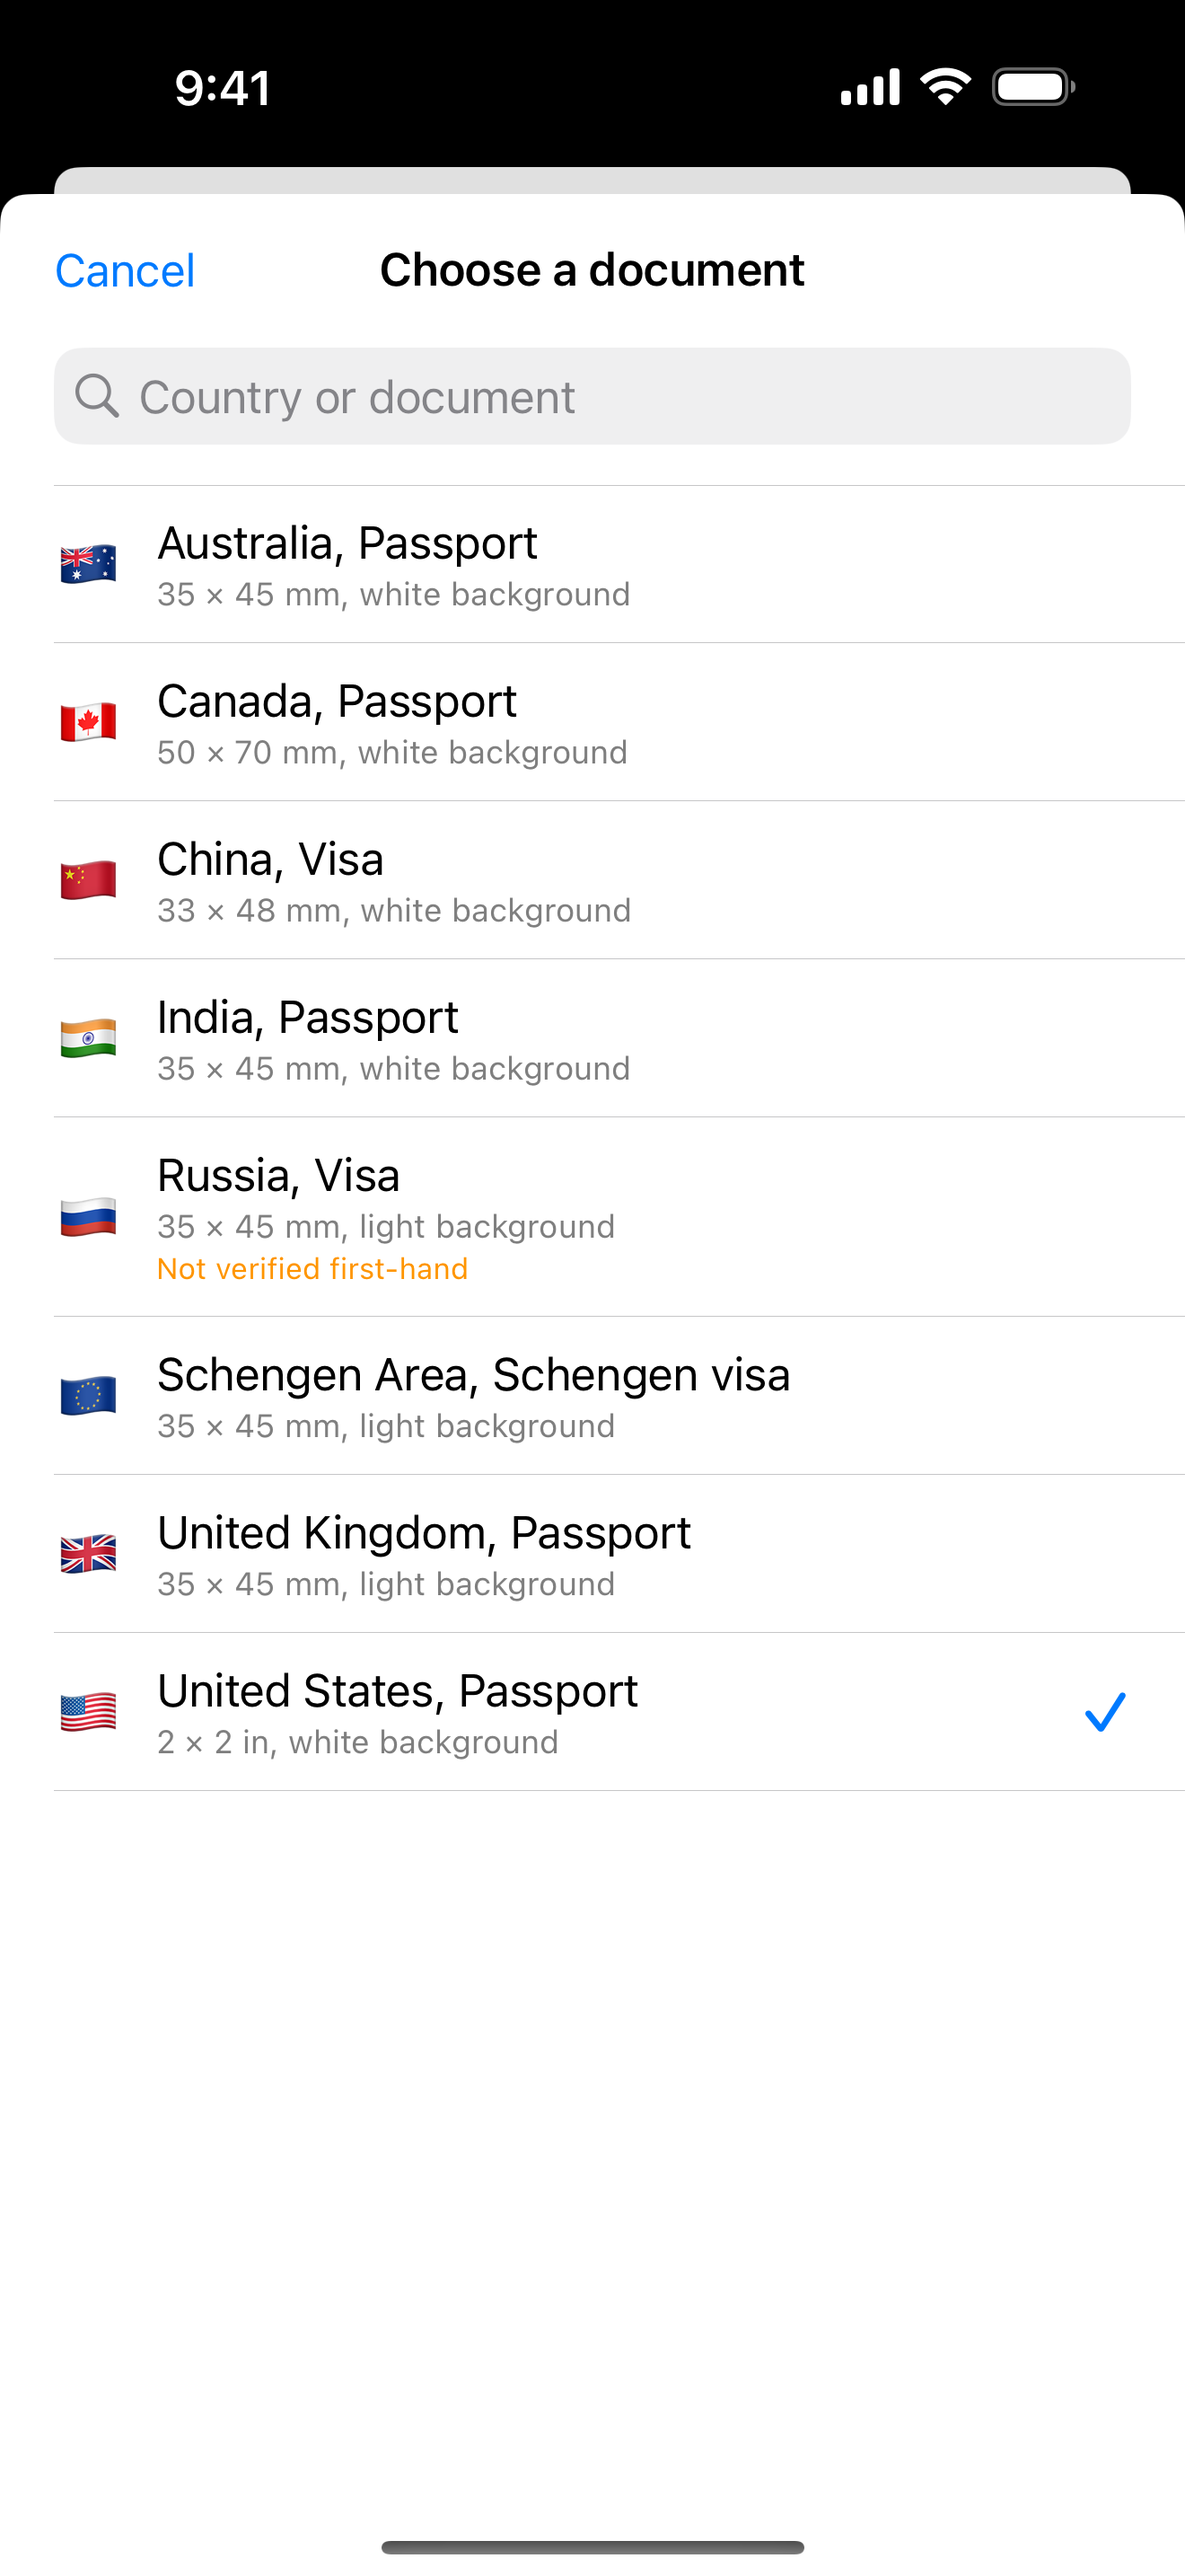
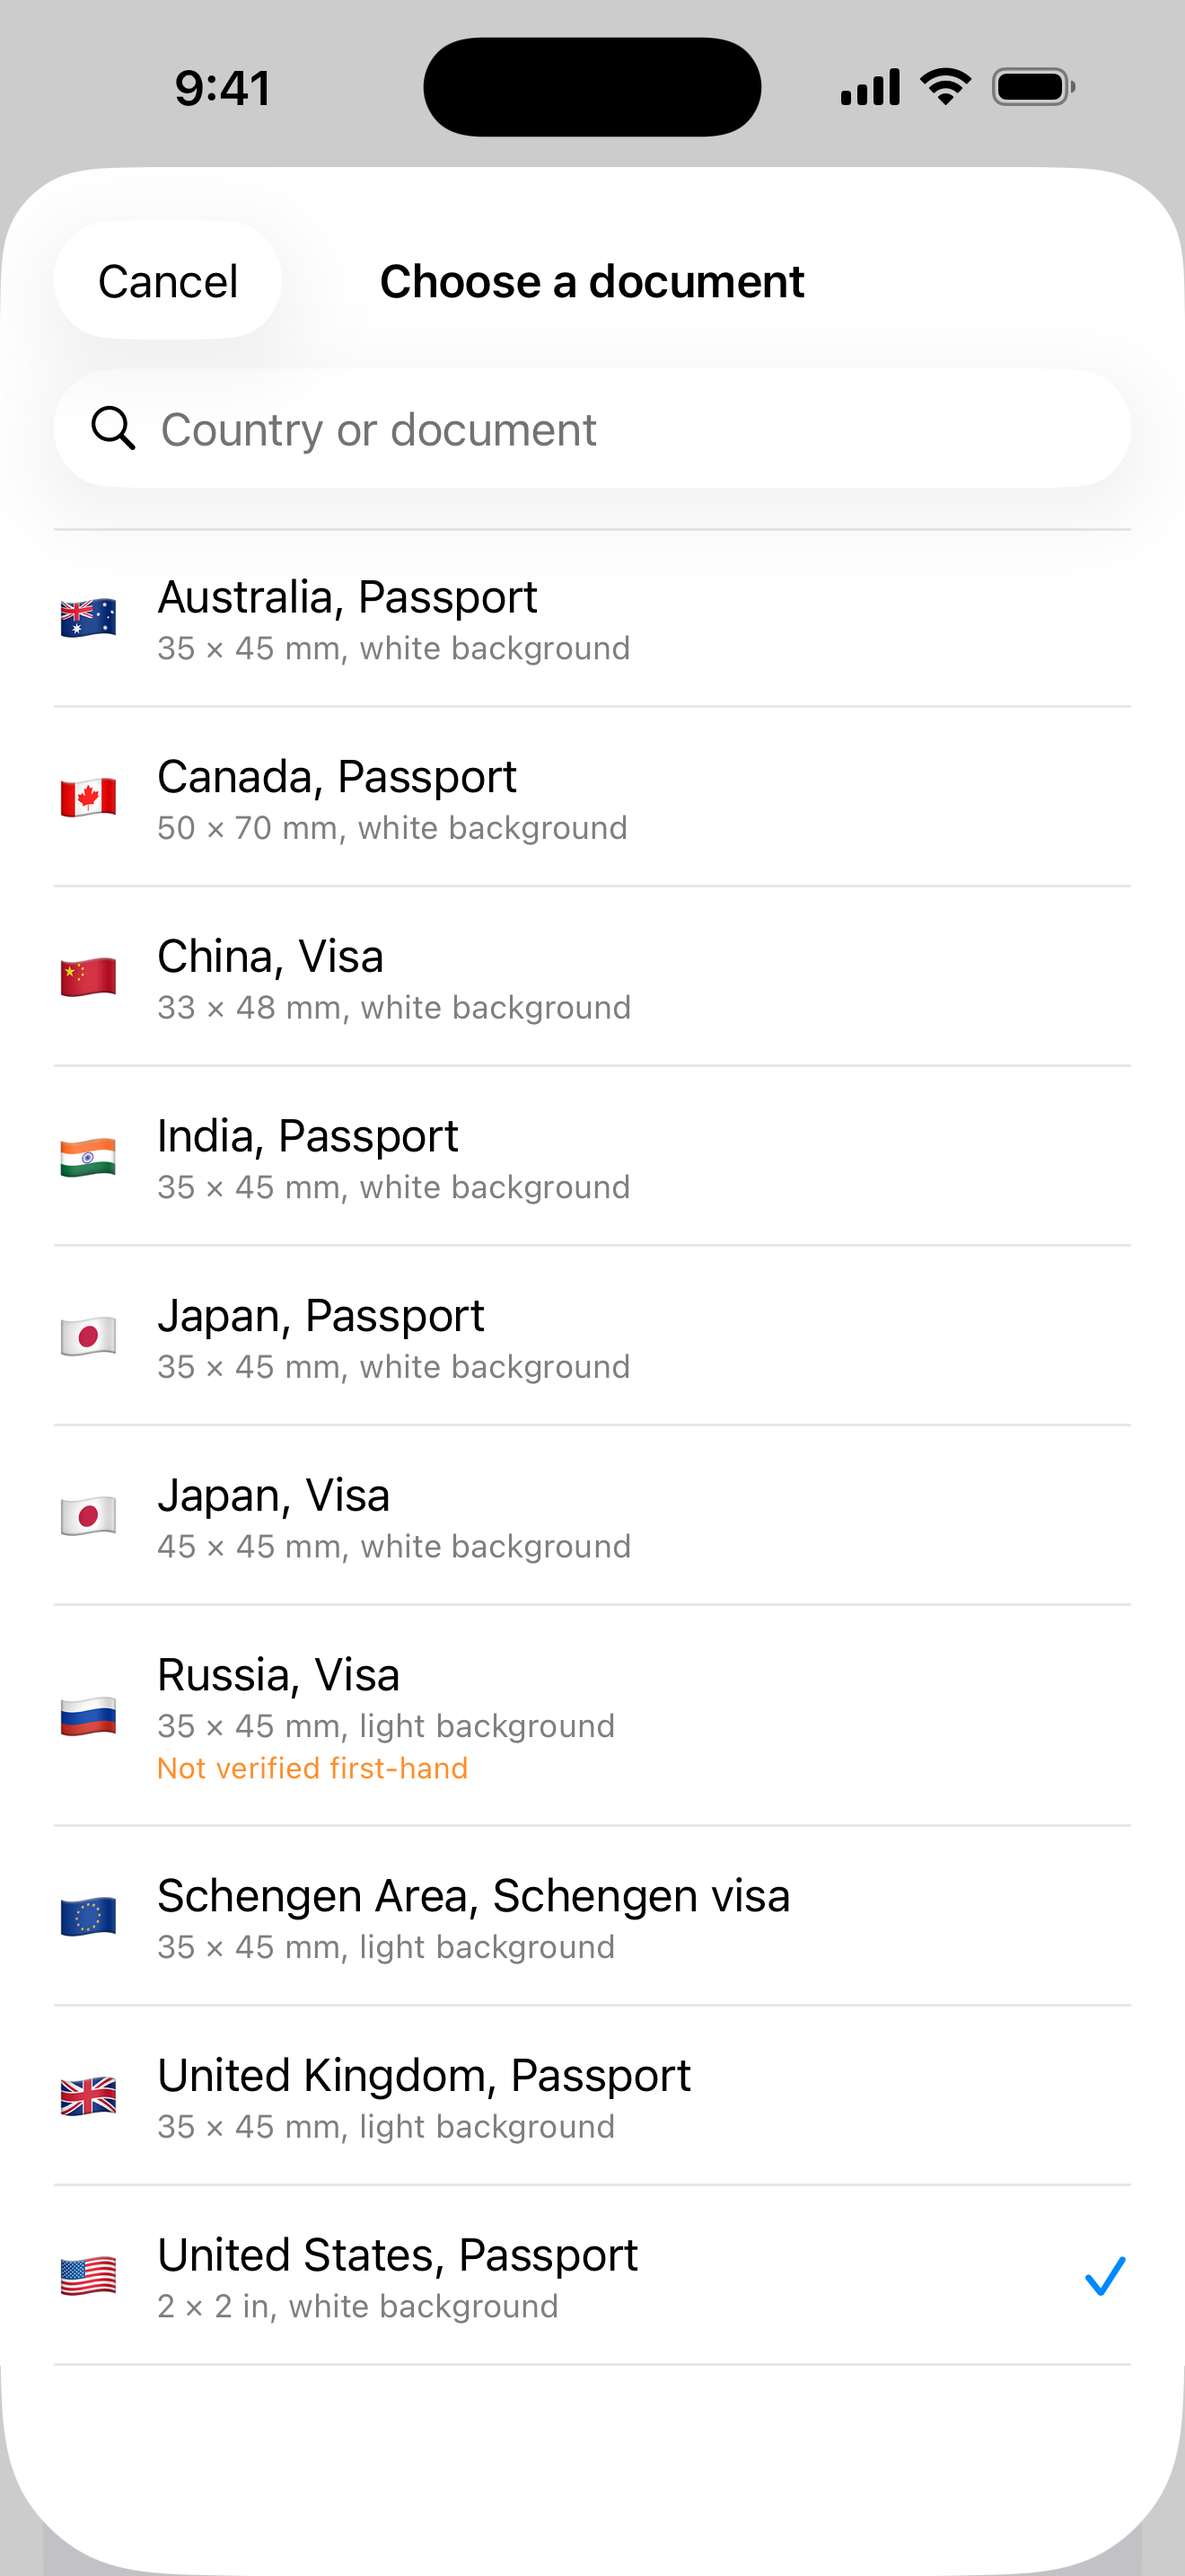
Recapture the marketing sources; three of the four were stale
Went in to add Japan to the picker and found the raw captures had drifted
well past that.

The picker was missing both Japan documents, which the live App Store
description already promises. The home screen predated the "Keep my own
background" card entirely and still defaulted to India; the app now guesses
from locale and opens on United States, which is also the better example for
the US storefront. The requirements screen had been restyled, sentence-case
headers and a different card treatment, so slides 2 and 3 were showing a UI
that no longer exists.

All recaptured on an iPhone 17 Pro Max simulator, which is natively
1320 x 2868, so nothing is scaled. Status bar flattened first, otherwise the
battery renders green and charging.

The honesty list no longer shares a screen with the measurements it follows,
so slide 3 now comes from its own scrolled capture, 3b-cant-check.png.

Still stale and not fixable here: 4-saved-sheet.png. It is past Vision, which
does not run in the Simulator, so slide 4 keeps showing the India print flow
while the other four show the United States. Recapture on a device.

The README's capture notes were wrong in a way that would have sent the next
person looking in the wrong place: they claimed slide 02 was built from
6-result.png. It is built from 3-requirements.png.

diff --git a/tools/store-shot.swift b/tools/store-shot.swift
@@ -62,12 +62,14 @@ let slides: [Slide] = [
     Slide(file: "02-measured.png", source: "3-requirements.png",
           headline: "Measured, not guessed",
           subline: "Head height, eye line, background, file size",
-          presentation: .detail(CGRect(x: 50, y: 420, width: 1220, height: 1300))),
+          presentation: .detail(CGRect(x: 50, y: 440, width: 1220, height: 1500))),
 
-    Slide(file: "03-honest.png", source: "3-requirements.png",
+    // A second capture, scrolled: the honesty list no longer fits on the same screen as the
+    // measurements it follows.
+    Slide(file: "03-honest.png", source: "3b-cant-check.png",
           headline: "Honest about what it cannot check",
           subline: "A green check is never a promise",
-          presentation: .detail(CGRect(x: 50, y: 1780, width: 1220, height: 1018))),
+          presentation: .detail(CGRect(x: 50, y: 1090, width: 1220, height: 1432))),
 
     Slide(file: "04-print.png", source: "4-saved-sheet.png",
           headline: "Exactly how to print it",

diff --git a/docs/store/README.md b/docs/store/README.md
@@ -39,17 +39,40 @@ scroll indicator.
 1320 x 2868 is the 6.9 inch size. Apple scales it down for smaller devices, so this one set
 covers every iPhone.
 
-## The device screenshot
+## Where the raw captures come from
 
-`screenshots/6-result.png` is the result screen, captured on an iPhone 15. It cannot be made
-here: Vision does not run in the Simulator, so this screen is unreachable on this machine.
+| Source | Screen | Captured |
+|---|---|---|
+| `1-home.png` | Home | iPhone 17 Pro Max simulator, 12 Oct 2026 |
+| `2-picker.png` | Document picker | iPhone 17 Pro Max simulator, 12 Oct 2026 |
+| `3-requirements.png` | Requirements, top | iPhone 17 Pro Max simulator, 12 Oct 2026 |
+| `3b-cant-check.png` | Requirements, scrolled | iPhone 17 Pro Max simulator, 12 Oct 2026 |
+| `4-saved-sheet.png` | Print guidance | **stale**, see below |
 
-It is currently a **downscaled copy at 923 x 2000**, and slide 02 upscales it about 1.3x to fill
-the panel. It holds up, but a full-resolution capture (1179 x 2556 on an iPhone 15) would be
-visibly sharper on the one slide that matters most. Worth replacing if a clean original is to
-hand: drop it in as `screenshots/6-result.png` and re-run the tool.
+To recapture, boot the simulator, build and launch, then flatten the status bar first or the
+battery renders green:
 
-Still worth capturing some time: the camera screen with the oval head guide and a live cue.
+```bash
+xcrun simctl status_bar <udid> override --time "9:41" --batteryState discharging \
+  --batteryLevel 100 --cellularBars 4 --wifiBars 3 --dataNetwork wifi
+xcrun simctl io <udid> screenshot docs/store/screenshots/1-home.png
+```
+
+A 17 Pro Max capture is exactly 1320 x 2868, which is the size the store wants, so no scaling
+is involved anywhere.
+
+## What cannot be captured here, and what is stale because of it
+
+Vision does not run in the Simulator, so every screen past "Choose Photo" is unreachable on this
+machine. That covers the result screen and the print guidance.
+
+`4-saved-sheet.png` is therefore **older than the rest of the set** and still shows the India
+flow, including "Submit to Passport Seva / VFS Global". Slide 04 is built from it. It is not
+wrong, India is a supported document, but it does not match the United States default the other
+four slides now show. Recapture it on a device during testing and re-run the tool.
+
+The strongest screenshot the app could have, a finished photo on the result screen with its
+measurements, also needs a device. Same for the camera screen with the oval head guide.
 
 ## Regenerating
 
@@ -57,9 +80,11 @@ The screenshots are generated, not drawn, by `tools/store-shot.swift`. After a U
 recapture with the Simulator and re-run it:
 
 ```bash
-xcrun swiftc -O tools/store-shot.swift -o /tmp/store-shot
-/tmp/store-shot raw.png out.png "Headline" "Subline"
+swift tools/store-shot.swift docs/store/screenshots docs/store/marketing
 ```
+
+It takes two directories, reads every slide from the `slides` array at the top of the file, and
+writes the whole set. Headlines and crops live in that array, not on the command line.
 
 The palette comes from the app icon: navy #2E3866 to #141936, amber #F7BC4C, and the icon's own
 crop marks framing the device. Headlines auto-fit so a long one shrinks to fit two lines rather
